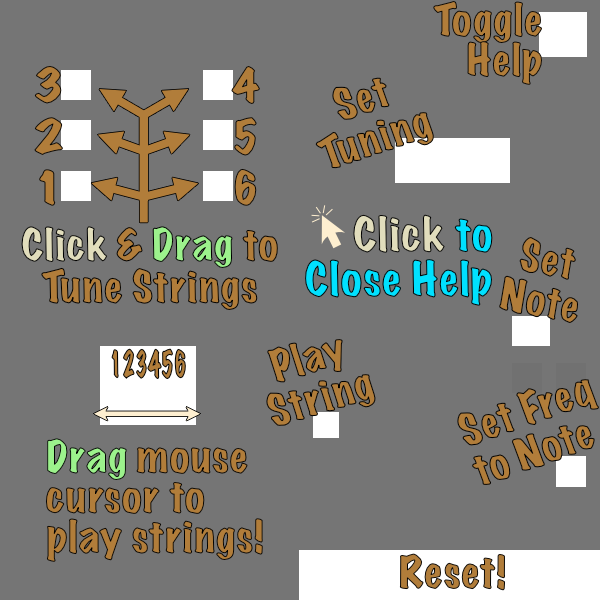
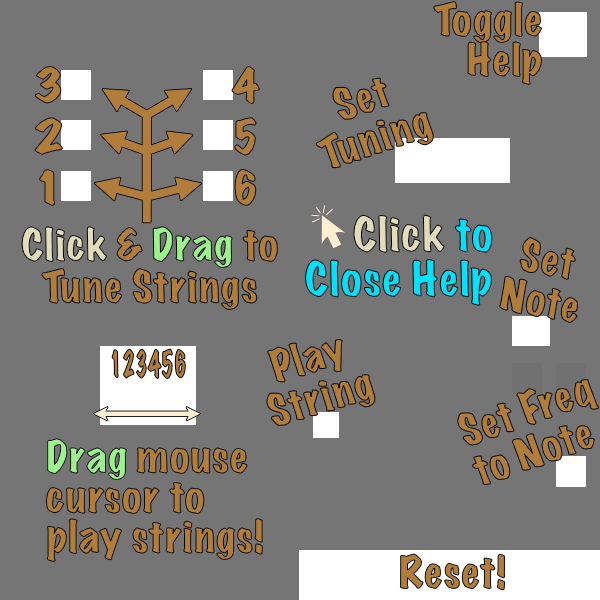
Disabled default mouse effects, minor stylings throughout (font)

Changed region(s): [[0.15, 0.15, 0.33, 0.39]]

diff --git a/src/components/GuitarContainer/UserInterface/StringsPanel/StringsPanelItem/NoteContainer/NoteDropdown/NoteDropdown.js b/src/components/GuitarContainer/UserInterface/StringsPanel/StringsPanelItem/NoteContainer/NoteDropdown/NoteDropdown.js
@@ -19,12 +19,9 @@ const NoteDropdown = function NoteDropdown({
   const currNote = currentNote.slice(0, -1);
   const currOctave = currentNote.slice(-1);
 
-  console.log(currNote, currOctave);
-
   const noteDropdownReducer = (state, action) => {
     switch (action.type) {
       case "TOGGLE_PROPERTY":
-        console.log(state);
         return {
           ...state,
           [action.property]:
@@ -43,11 +40,8 @@ const NoteDropdown = function NoteDropdown({
     }
   );
 
-  console.log(noteDropdownState);
-
   React.useEffect(() => {
     if (noteDropdownState.note && noteDropdownState.octave) {
-      console.log("ahh");
       stringsDispatch({
         type: "SET_FREQUENCY_TO_NOTE",
         id,

diff --git a/src/components/GuitarHead/TuningKeys/TuningKeyContainer/TuningKeyClickBox/TuningKeyClickBox.js b/src/components/GuitarHead/TuningKeys/TuningKeyContainer/TuningKeyClickBox/TuningKeyClickBox.js
@@ -3,7 +3,7 @@ import "./TuningKeyClickBox.scss";
 import React from "react";
 import { useStrings } from "../../../../../hooks/stringsContext";
 import PropTypes from "prop-types";
-import { initDrag, endDrag } from "../../../../../utils/tuningFunctions";
+import { initDrag } from "../../../../../utils/tuningFunctions";
 
 const TuningKeyClickBox = React.memo(function TuningKeyClickBox({
   positionDispatch,
@@ -40,7 +40,6 @@ const TuningKeyClickBox = React.memo(function TuningKeyClickBox({
         dragCheck(event);
         setMouseY(event.clientY);
       }}
-      onDragEnd={endDrag}
     ></div>
   );
 });

diff --git a/src/components/GuitarHead/HeadStrings/HeadString/HeadString.js b/src/components/GuitarHead/HeadStrings/HeadString/HeadString.js
@@ -5,14 +5,10 @@ import PropTypes from "prop-types";
 const HeadString = React.memo(function HeadString({ id }) {
   const headStringClass = `headString headString__${id}`;
 
-  const hoverString = () => {
-    console.log(`Hovering headstring ${id}`);
-  };
   return (
     <img
       className={headStringClass}
       src={require(`../../../../assets/images/guitar/GuitarNeck_String${id}.svg`)}
-      onMouseEnter={hoverString}
     />
   );
 });

diff --git a/src/components/App.scss b/src/components/App.scss
@@ -1,4 +1,11 @@
 .app {
   text-align: center;
   font-family: sans-serif;
+
+  -webkit-touch-callout: none; /* iOS Safari */
+  -webkit-user-select: none; /* Safari */
+  -moz-user-select: none; /* Old versions of Firefox */
+  -ms-user-select: none; /* Internet Explorer/Edge */
+  user-select: none; /* Non-prefixed version, currently
+                                supported by Chrome, Opera and Firefox */
 }

diff --git a/src/components/GuitarContainer/UserInterface/StringsPanel/StringsPanelItem/NoteContainer/NoteContainer.js b/src/components/GuitarContainer/UserInterface/StringsPanel/StringsPanelItem/NoteContainer/NoteContainer.js
@@ -25,7 +25,6 @@ const NoteContainer = function NoteContainer({ id, frequency }) {
     dropdownState === "CLOSED"
       ? setDropdownState("OPEN")
       : setDropdownState("CLOSED");
-    console.log(dropdownState);
   };
 
   return (

diff --git a/src/components/GuitarContainer/UserInterface/StringsPanel/StringsPanelItem/NoteContainer/NoteContainer.scss b/src/components/GuitarContainer/UserInterface/StringsPanel/StringsPanelItem/NoteContainer/NoteContainer.scss
@@ -1,10 +1,12 @@
 .noteContainer {
   display: flex;
   align-items: center;
-  gap: 20px;
+  gap: 25px;
   height: 29px;
 
   color: paleturquoise;
+  font-size: 19px;
+  font-weight: 600;
 
   &__noteDropdown {
     border-radius: 10px;

diff --git a/src/components/App.js b/src/components/App.js
@@ -5,7 +5,7 @@ import PageContainer from "./PageContainer/PageContainer.js";
 
 function App() {
   return (
-    <div className="app">
+    <div className="app" draggable="false">
       <Header />
       <PageContainer />
     </div>

diff --git a/src/utils/tuningFunctions.js b/src/utils/tuningFunctions.js
@@ -9,8 +9,4 @@ const initDrag = (event) => {
   event.dataTransfer.setDragImage(dragNote, 0, 20);
 };
 
-const endDrag = (event) => {
-  console.log("tKey dragEnd");
-};
-
-export { initDrag, endDrag };
+export { initDrag };

diff --git a/src/components/GuitarContainer/UserInterface/StringsPanel/StringsPanelItem/StringsPanelItem.scss b/src/components/GuitarContainer/UserInterface/StringsPanel/StringsPanelItem/StringsPanelItem.scss
@@ -7,5 +7,6 @@
 
   &__frequency {
     width: 150px;
+    padding-top: 1px;
   }
 }
